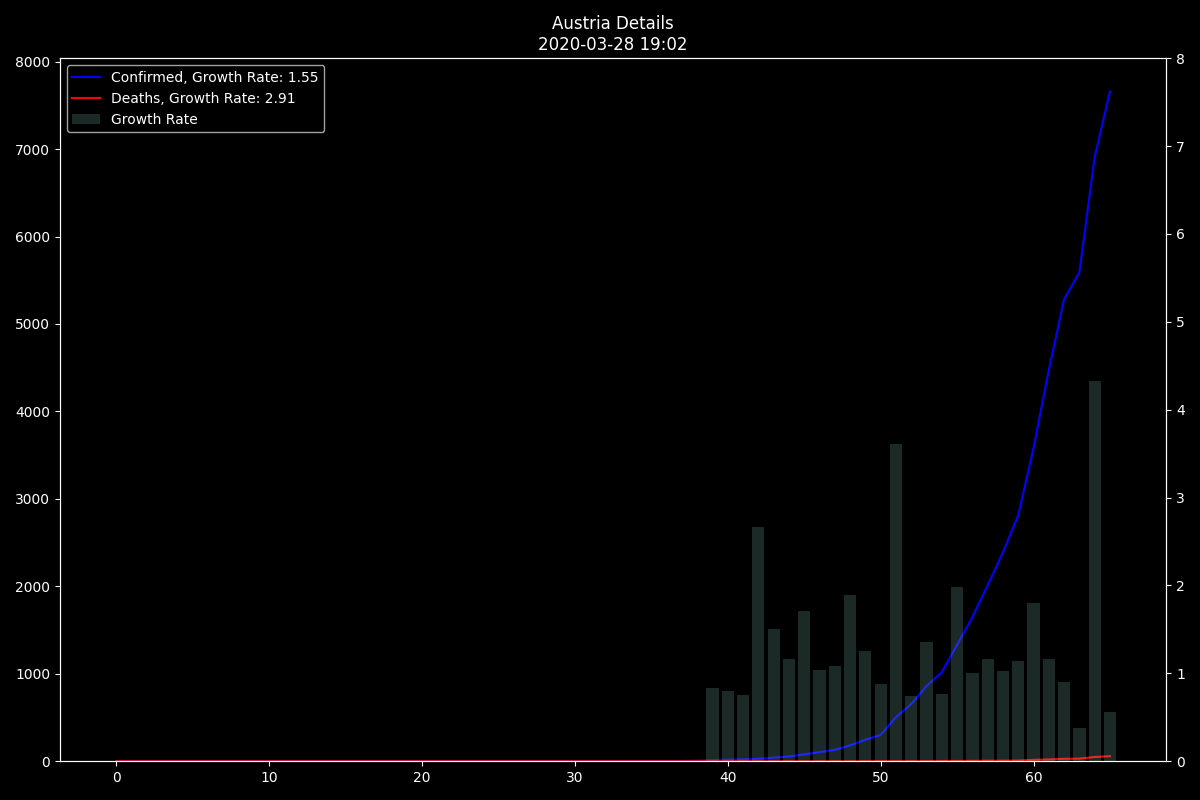
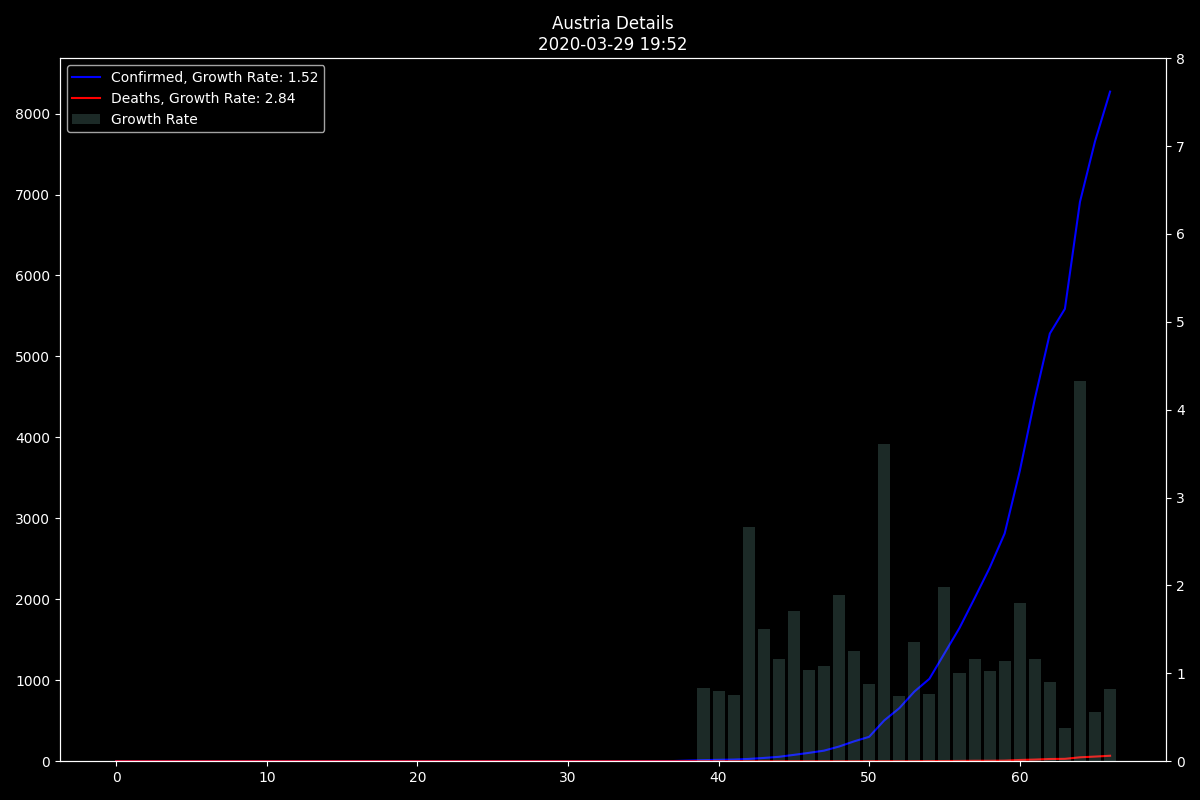
added logarithmic chart for austria, updated charts

diff --git a/corona.py b/corona.py
@@ -136,12 +136,20 @@ def main():
     plt.figure()
     plt.plot(actual, label='Data', color='b', linestyle='', marker='o')
     r2 = r_square(ffit, actual)
-    plt.plot([ffit(x) for x in range(int(len(actual) * 1.3))], label=f'Fitted  R^2: {r2:.3}', color='g')
+    plt.plot([ffit(x) for x in range(int(len(actual) + 10))], label=f'Fitted  R^2: {r2:.3}', color='g')
     plt.legend()
     sfunc = 'f(x) = ' + ' + '.join(f'{coefs[i]:.3f} * x ^ {i + 1}' for i in range(len(coefs)))
     plt.title(f'Polynomial Fitted Curve\nAustria\n{sfunc}\n{timestamp}')
     plt.tight_layout()
     plt.savefig(filename('fitted.png'))
+
+    plt.figure()
+    plt.plot(actual, label='Data', color='b')
+    plt.legend()
+    plt.title(f'Logarithmic\nAustria\n{timestamp}')
+    plt.yscale('log')
+    plt.tight_layout()
+    plt.savefig(filename('logarithmic.png'))
 
     plt.show()
 

diff --git a/README.md b/README.md
@@ -34,4 +34,9 @@ Polynomial Fit
 
 ![Fitted](export/fitted.png)
 
+Logarithmic
+-----------
+
+![Logarithmic](export/logarithmic.png)
+
 
